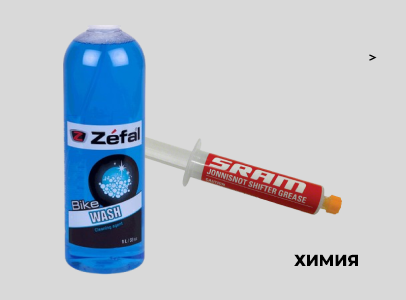
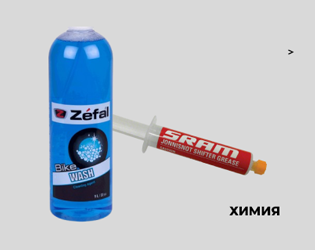
refactor: ShopMain catalog photos

diff --git a/BikeShop.Frontend/webclient/src/pages/public/Shop/ShopMain/ShopMain.tsx b/BikeShop.Frontend/webclient/src/pages/public/Shop/ShopMain/ShopMain.tsx
@@ -22,13 +22,15 @@ import testImage7 from '../../../../shared/assets/shop/images/testImage-square-2
 import testImage8 from '../../../../shared/assets/shop/images/testImage-square-28.jpg'
 import testImage9 from '../../../../shared/assets/shop/images/testImage-square-29.jpg'
 
-// import catalogBikes from '../../../../shared/assets/shop/images/catalog-bikes.png'
-// import catalogProtection from '../../../../shared/assets/shop/images/catalog-protection.png'
-// import catalogSpares from '../../../../shared/assets/shop/images/catalog-spares.png'
-// import catalogClothes from '../../../../shared/assets/shop/images/catalog-clothes.png'
-// import catalogChemistry from '../../../../shared/assets/shop/images/catalog-chemistry.png'
-// import catalogAccessories from '../../../../shared/assets/shop/images/catalog-accessories.png'
-// import catalogFood from '../../../../shared/assets/shop/images/catalog-food.png'
+import catalogBikes from '../../../../shared/assets/shop/images/catalog-bikes.png'
+import catalogProtection from '../../../../shared/assets/shop/images/catalog-protection.png'
+import catalogSpares from '../../../../shared/assets/shop/images/catalog-spares.png'
+import catalogClothes from '../../../../shared/assets/shop/images/catalog-clothes.png'
+import catalogChemistry from '../../../../shared/assets/shop/images/catalog-chemistry.png'
+import catalogAccessories from '../../../../shared/assets/shop/images/catalog-accessories.png'
+import catalogFood from '../../../../shared/assets/shop/images/catalog-food.png'
+import catalogRaznoe from '../../../../shared/assets/shop/images/catalog-raznoe.png'
+import catalogSamokat from '../../../../shared/assets/shop/images/catalog-samokat.png'
 
 export const ShopMain = () => {
 
@@ -73,33 +75,33 @@ export const ShopMain = () => {
                     <div className={s.container}>
                         <div className={s.catalog_items}>
                             <div className={s.catalog_item4}>
-                                <img src={testImage4} alt="catalog-spares"/>
+                                <img src={catalogSpares} alt="catalog-spares"/>
                             </div>
                             <div className={s.catalog_item5}>
-                                <img src={testImage5} alt="catalog-spares"/>
+                                <img src={catalogProtection} alt="catalog-spares"/>
                             </div>
                             <div className={s.catalog_item1}>
-                                <img src={testImage1} alt="catalog-spares"/>
+                                <img src={catalogBikes} alt="catalog-spares"/>
                             </div>
 
                             <div className={s.catalog_item6}>
-                                <img src={testImage6} alt="catalog-spares"/>
+                                <img src={catalogClothes} alt="catalog-spares"/>
                             </div>
                             <div className={s.catalog_item2}>
-                                <img src={testImage2} alt="catalog-spares"/>
+                                <img src={catalogSamokat} alt="catalog-spares"/>
                             </div>
                             <div className={s.catalog_item7}>
-                                <img src={testImage7} alt="catalog-accessories"/>
+                                <img src={catalogRaznoe} alt="catalog-accessories"/>
                             </div>
 
                             <div className={s.catalog_item3}>
-                                <img src={testImage3} alt="catalog-food"/>
+                                <img src={catalogAccessories} alt="catalog-food"/>
                             </div>
                             <div className={s.catalog_item8}>
-                                <img src={testImage8} alt="catalog-accessories"/>
+                                <img src={catalogChemistry} alt="catalog-accessories"/>
                             </div>
                             <div className={s.catalog_item9}>
-                                <img src={testImage9} alt="catalog-accessories"/>
+                                <img src={catalogFood} alt="catalog-accessories"/>
                             </div>
                         </div>
                     </div>
